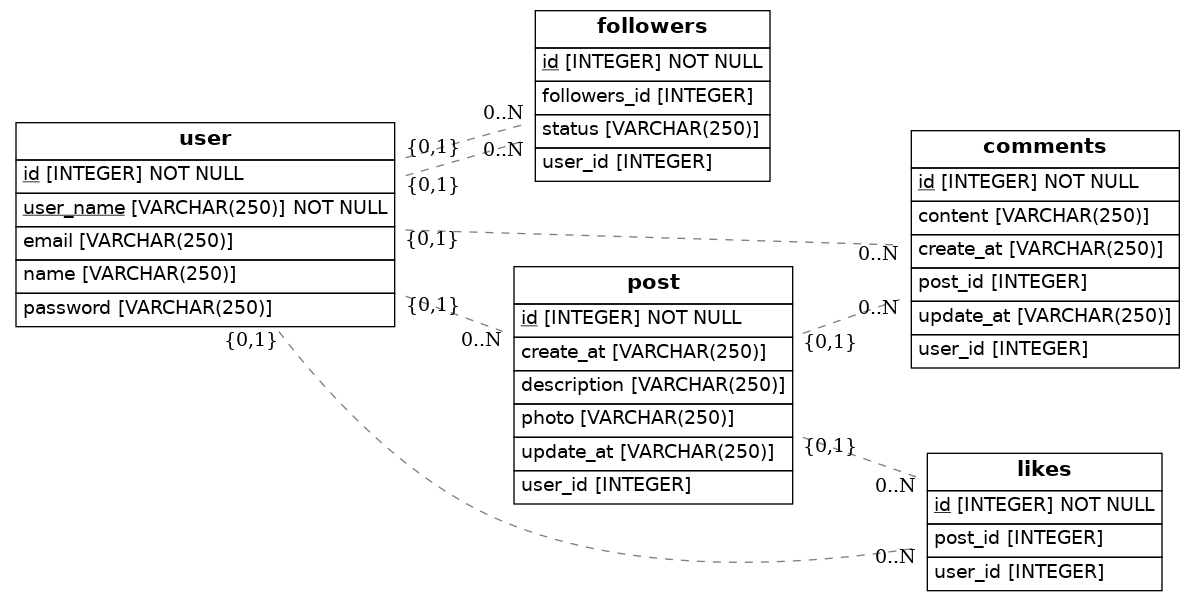
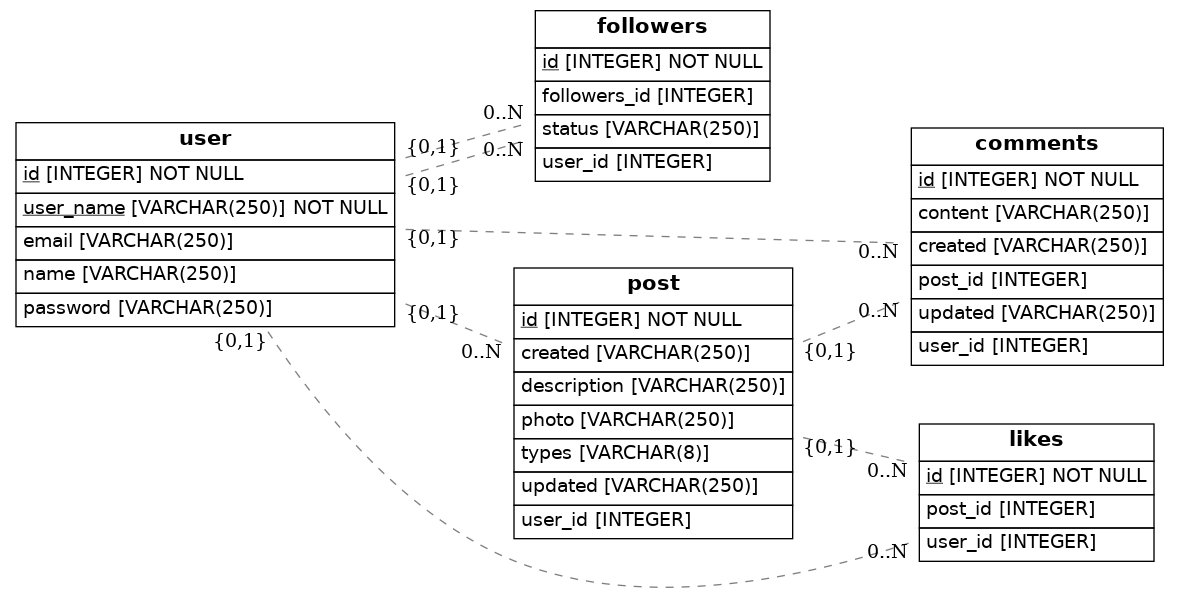
datamodelinginstagram

Changed region(s): [[0.0, 0.0, 1.0, 0.9106], [0.7328, 0.6981, 0.9771, 1.0]]

diff --git a/src/models.py b/src/models.py
@@ -1,10 +1,12 @@
 import os
 import sys
-from sqlalchemy import Column, ForeignKey, Integer, String
+import enum
+from sqlalchemy import Column, ForeignKey, Integer, String, Enum
 from sqlalchemy.ext.declarative import declarative_base
 from sqlalchemy.orm import relationship
 from sqlalchemy import create_engine
 from eralchemy2 import render_er
+
 
 Base = declarative_base()
 
@@ -25,6 +27,11 @@ class Followers(Base):
     status = Column(String(250))
     followers = relationship(User)
 
+class Media(enum.Enum):
+    photo = 'photo'
+    pictures = 'pictures'
+    video = 'video'
+    
 class Post(Base):
     __tablename__ = 'post'
     id = Column(Integer, primary_key=True)
@@ -33,6 +40,7 @@ class Post(Base):
     description = Column(String(250))
     created = Column(String(250))
     updated = Column(String(250))
+    types= Column(Enum(Media))
     followers = relationship(User)
 
 class Comments(Base):
@@ -52,6 +60,8 @@ class Likes(Base):
     user_id = Column(Integer, ForeignKey('user.id'))
     post_id = Column(Integer, ForeignKey('post.id'))
     likes = relationship(User)
+    
+
     
 
 
